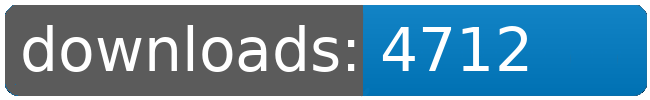
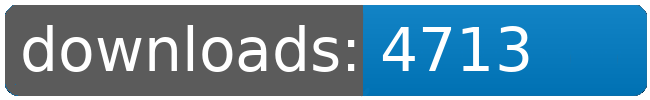
dl log written

Changed region(s): [[0.7692, 0.42, 0.8308, 0.72], [0.7692, 0.27, 0.8308, 0.39]]

diff --git a/README.md b/README.md
@@ -76,8 +76,8 @@
 		<td>4648</td>
 		<td>4672</td>
 		<td>4693</td>
-		<td>4712</td>
-		<td>+ 19</td>
+		<td>4713</td>
+		<td>+ 20</td>
 	</tr>
 	<tr>
 		<td>Solar.Sails</td>
@@ -109,8 +109,8 @@
 		<td></td>
 		<td></td>
 		<td></td>
-		<td>34775</td>
-		<td>137</td>
+		<td>34776</td>
+		<td>138</td>
 	</tr>
 </table>
 </sub></sup>
@@ -146,8 +146,8 @@
 		<td>4648</td>
 		<td>4672</td>
 		<td>4693</td>
-		<td>4712</td>
-		<td>+ 19</td>
+		<td>4713</td>
+		<td>+ 20</td>
 	</tr>
 	<tr>
 		<td>Korunak.Defense.Drones</td>
@@ -223,8 +223,8 @@
 		<td></td>
 		<td></td>
 		<td></td>
-		<td>34775</td>
-		<td>137</td>
+		<td>34776</td>
+		<td>138</td>
 	</tr>
 </table>
 </sub></sup>
